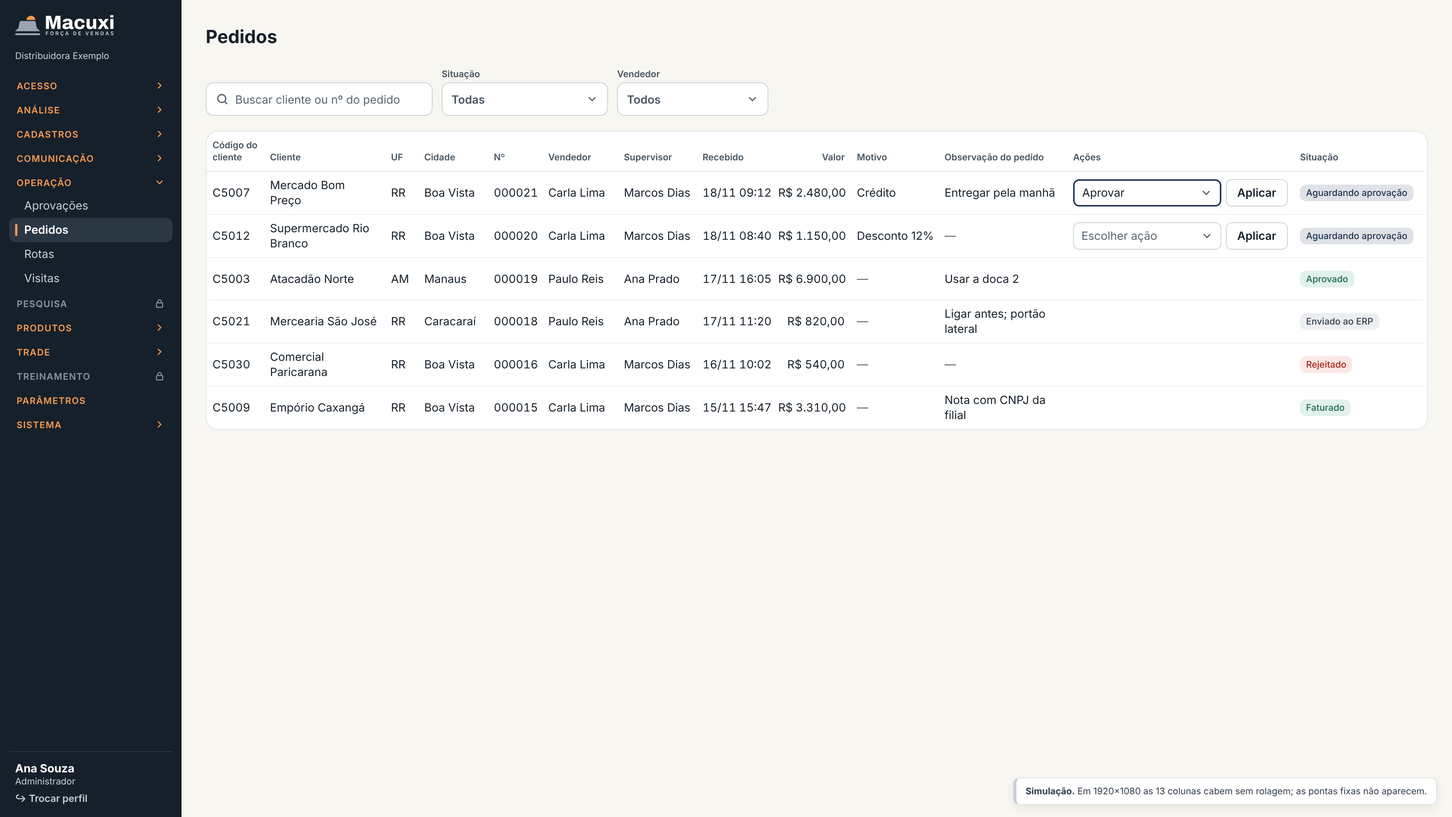
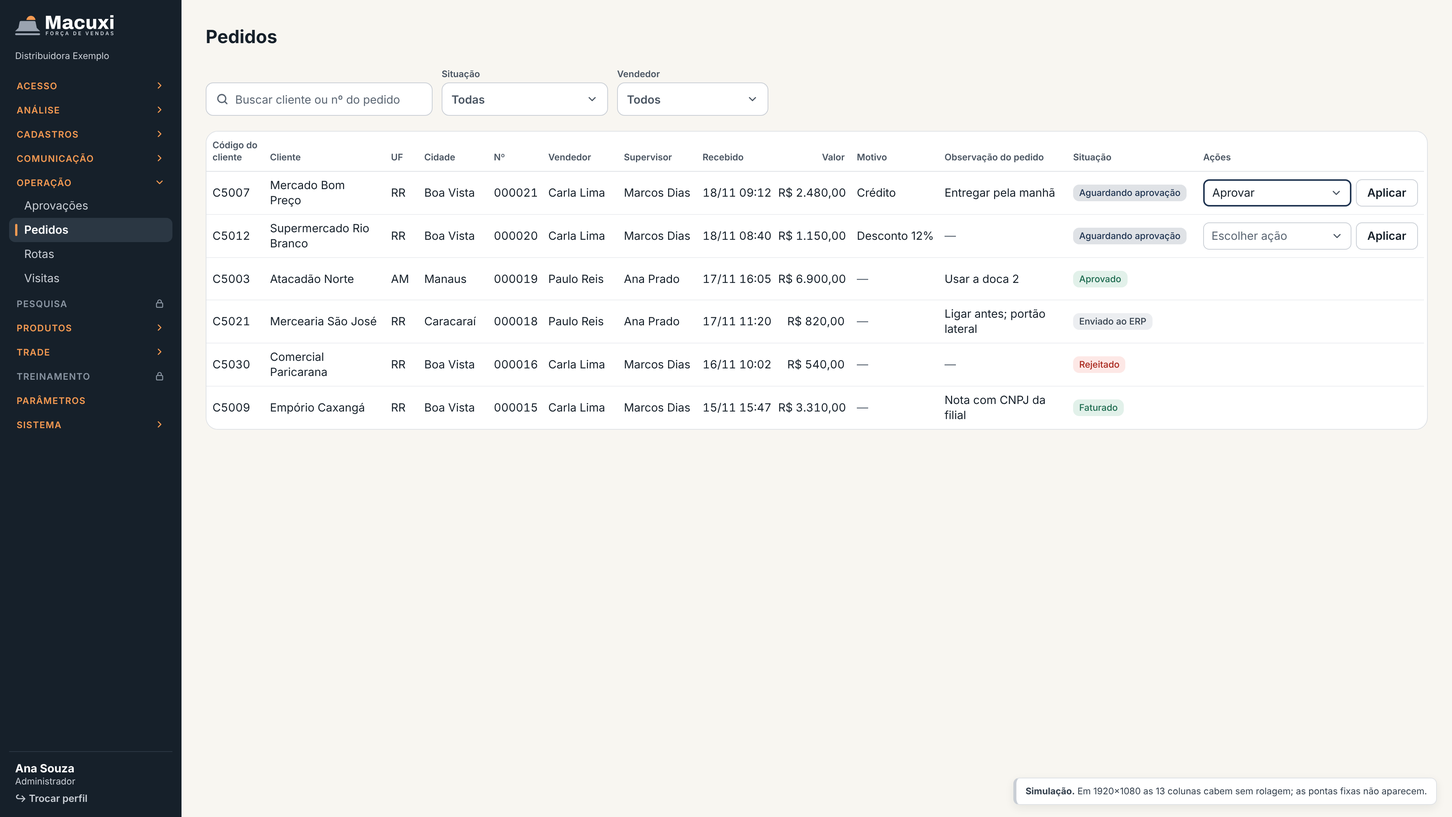
designer-ux — v1.0.15 simulações aprovadas: Situação antes de Ações em BKO › Pedidos; P7 A, P8 A e "Aplicar" na spec
R-20261118-220604-alexandre. Pranchas 04 e 04b com a ordem ... · Motivo · Observação do pedido · Situação · Ações;
na 1366 as pontas fixas são Código/Cliente e Situação/Ações.

Agente: designer-ux

Claude-Session: https://claude.ai/code/session_019xHEXrPzgn3fNKy4GEjQ9e

Changed region(s): [[0.7188, 0.2171, 1.0, 0.4032], [0.875, 0.4343, 0.9375, 0.5273], [0.7188, 0.4343, 0.7812, 0.5273]]

diff --git a/docs/design/pedido-aprovacao/04-bko-pedidos-tabela.html b/docs/design/pedido-aprovacao/04-bko-pedidos-tabela.html
@@ -84,7 +84,7 @@ tr:last-child td{border-bottom:0}
 .filtros{display:flex;gap:12px;align-items:flex-end}
 .filtros .campo{font-size:12px;font-weight:600;color:#4A5562}
 .busca{height:44px;border:1px solid #C9CED5;border-radius:10px;background:#fff;width:300px;display:flex;align-items:center;gap:8px;padding:0 12px;color:#5B6673;font-size:15px}
-/* Tabela de Pedidos (R-20261118-214740): 13 colunas; em 1366 rola na horizontal com Código + Cliente e Ações + Situação fixas. */
+/* Tabela de Pedidos (R-20261118-214740): 13 colunas; em 1366 rola na horizontal com Código + Cliente e Situação + Ações fixas. */
 .quadro.tab{padding:0;overflow:hidden}
 .rola{overflow-x:auto;scrollbar-width:none}
 /* Barra de rolagem desenhada: o Chromium sem janela esconde a nativa. Polegar = área visível ÷ largura da tabela. */
@@ -98,7 +98,7 @@ table.ped td.qb{white-space:normal}
 table.ped .tn{font-variant-numeric:tabular-nums}
 table.ped .vz{color:#5B6673}
 .fe1,.fe2,.fd1,.fd2{position:sticky;z-index:1}
-.fe1{left:0}.fe2{left:76px}.fd1{right:172px}.fd2{right:0}
+.fe1{left:0}.fe2{left:76px}.fd1{right:300px}.fd2{right:0}
 .fe2:after,.fd1:before{content:'';position:absolute;top:0;bottom:0;width:8px;pointer-events:none}
 .fe2:after{right:-8px;background:linear-gradient(to right,rgba(22,32,42,.10),rgba(22,32,42,0))}
 .fd1:before{left:-8px;background:linear-gradient(to left,rgba(22,32,42,.10),rgba(22,32,42,0))}
@@ -112,15 +112,15 @@ table.ped .vz{color:#5B6673}
 </style><body><nav class="menu"><div class="brand"><img src="../../marca/ativos/2026-11-12-v1/macuxi-logo-negativo-grafite.svg" height="28" alt="Macuxi Força de Vendas"><span>Distribuidora Exemplo</span></div><div class="lista"><div class="grupo"><div class="titulo" aria-expanded="false"><span>Acesso</span><svg width="14" height="14" viewBox="0 0 24 24" fill="none" stroke="currentColor" stroke-width="2.2" stroke-linecap="round" stroke-linejoin="round" style="transform:rotate(0deg)"><path d="M9 6l6 6-6 6"/></svg></div></div><div class="grupo"><div class="titulo" aria-expanded="false"><span>Análise</span><svg width="14" height="14" viewBox="0 0 24 24" fill="none" stroke="currentColor" stroke-width="2.2" stroke-linecap="round" stroke-linejoin="round" style="transform:rotate(0deg)"><path d="M9 6l6 6-6 6"/></svg></div></div><div class="grupo"><div class="titulo" aria-expanded="false"><span>Cadastros</span><svg width="14" height="14" viewBox="0 0 24 24" fill="none" stroke="currentColor" stroke-width="2.2" stroke-linecap="round" stroke-linejoin="round" style="transform:rotate(0deg)"><path d="M9 6l6 6-6 6"/></svg></div></div><div class="grupo"><div class="titulo" aria-expanded="false"><span>Comunicação</span><svg width="14" height="14" viewBox="0 0 24 24" fill="none" stroke="currentColor" stroke-width="2.2" stroke-linecap="round" stroke-linejoin="round" style="transform:rotate(0deg)"><path d="M9 6l6 6-6 6"/></svg></div></div><div class="grupo"><div class="titulo aberto" aria-expanded="true"><span>Operação</span><svg width="14" height="14" viewBox="0 0 24 24" fill="none" stroke="currentColor" stroke-width="2.2" stroke-linecap="round" stroke-linejoin="round" style="transform:rotate(90deg)"><path d="M9 6l6 6-6 6"/></svg></div><a class="item">Aprovações</a><a class="item ativo" aria-current="page">Pedidos</a><a class="item">Rotas</a><a class="item">Visitas</a></div><div class="titulo bloq" id="m-pesquisa" role="link" aria-disabled="true" aria-describedby="dica" tabindex="0"><span>Pesquisa</span><svg class="cad" width="14" height="14" viewBox="0 0 24 24" fill="none" stroke="currentColor" stroke-width="2.2" stroke-linecap="round" stroke-linejoin="round" aria-hidden="true"><rect x="5" y="11" width="14" height="10" rx="2"/><path d="M8 11V8a4 4 0 0 1 8 0v3"/></svg></div><div class="grupo"><div class="titulo" aria-expanded="false"><span>Produtos</span><svg width="14" height="14" viewBox="0 0 24 24" fill="none" stroke="currentColor" stroke-width="2.2" stroke-linecap="round" stroke-linejoin="round" style="transform:rotate(0deg)"><path d="M9 6l6 6-6 6"/></svg></div></div><div class="grupo"><div class="titulo" aria-expanded="false"><span>Trade</span><svg width="14" height="14" viewBox="0 0 24 24" fill="none" stroke="currentColor" stroke-width="2.2" stroke-linecap="round" stroke-linejoin="round" style="transform:rotate(0deg)"><path d="M9 6l6 6-6 6"/></svg></div></div><div class="titulo bloq" id="m-treinamento" role="link" aria-disabled="true" aria-describedby="dica" tabindex="0"><span>Treinamento</span><svg class="cad" width="14" height="14" viewBox="0 0 24 24" fill="none" stroke="currentColor" stroke-width="2.2" stroke-linecap="round" stroke-linejoin="round" aria-hidden="true"><rect x="5" y="11" width="14" height="10" rx="2"/><path d="M8 11V8a4 4 0 0 1 8 0v3"/></svg></div><a class="titulo direto"><span>Parâmetros</span></a><div class="grupo"><div class="titulo" aria-expanded="false"><span>Sistema</span><svg width="14" height="14" viewBox="0 0 24 24" fill="none" stroke="currentColor" stroke-width="2.2" stroke-linecap="round" stroke-linejoin="round" style="transform:rotate(0deg)"><path d="M9 6l6 6-6 6"/></svg></div></div></div><div class="rodape"><b>Ana Souza</b><span>Administrador</span><div class="sair">↪ Trocar perfil</div></div></nav><div class="dica" id="dica" role="tooltip" hidden>Contrate o módulo para usar</div><main><h1>Pedidos</h1><div class="corpo"><div class="conteudo"><div class="filtros"><div class="busca"><svg width="18" height="18" viewBox="0 0 24 24" fill="none" stroke="currentColor" stroke-width="2.2" stroke-linecap="round"><circle cx="11" cy="11" r="7"/><path d="M20 20l-3.5-3.5"/></svg><span>Buscar cliente ou nº do pedido</span></div>
 <label class="campo">Situação<div class="sel" style="width:220px"><span>Todas</span><svg width="16" height="16" viewBox="0 0 24 24" fill="none" stroke="currentColor" stroke-width="2.2" stroke-linecap="round" stroke-linejoin="round"><path d="M6 9l6 6 6-6"/></svg></div></label>
 <label class="campo">Vendedor<div class="sel" style="width:200px"><span>Todos</span><svg width="16" height="16" viewBox="0 0 24 24" fill="none" stroke="currentColor" stroke-width="2.2" stroke-linecap="round" stroke-linejoin="round"><path d="M6 9l6 6 6-6"/></svg></div></label></div>
-<section class="quadro tab"><div class="rola"><table class="ped"><colgroup><col style="width:76px"><col style="width:160px"><col style="width:44px"><col style="width:92px"><col style="width:72px"><col style="width:100px"><col style="width:104px"><col style="width:100px"><col style="width:104px"><col style="width:116px"><col style="width:170px"><col style="width:300px"><col style="width:172px"></colgroup>
-<thead><tr><th class="fe1">Código do cliente</th><th class="fe2">Cliente</th><th>UF</th><th>Cidade</th><th>Nº</th><th>Vendedor</th><th>Supervisor</th><th>Recebido</th><th class="n">Valor</th><th>Motivo</th><th>Observação do pedido</th><th class="fd1">Ações</th><th class="fd2">Situação</th></tr></thead><tbody>
-<tr><td class="fe1 tn">C5007</td><td class="fe2 qb">Mercado Bom Preço</td><td>RR</td><td>Boa Vista</td><td class="tn">000021</td><td>Carla Lima</td><td>Marcos Dias</td><td class="tn">18/11 09:12</td><td class="n">R$ 2.480,00</td><td>Crédito</td><td class="qb">Entregar pela manhã</td><td class="fd1"><div class="acs"><div class="sel editado" role="combobox" aria-label="Ação do pedido"><span>Aprovar</span><svg width="16" height="16" viewBox="0 0 24 24" fill="none" stroke="currentColor" stroke-width="2.2" stroke-linecap="round" stroke-linejoin="round"><path d="M6 9l6 6 6-6"/></svg></div><span class="b">Aplicar</span></div></td><td class="fd2"><span class="sit s-pe">Aguardando aprovação</span></td></tr>
-<tr><td class="fe1 tn">C5012</td><td class="fe2 qb">Supermercado Rio Branco</td><td>RR</td><td>Boa Vista</td><td class="tn">000020</td><td>Carla Lima</td><td>Marcos Dias</td><td class="tn">18/11 08:40</td><td class="n">R$ 1.150,00</td><td>Desconto 12%</td><td class="qb"><span class="vz">—</span></td><td class="fd1"><div class="acs"><div class="sel vazia" role="combobox" aria-label="Ação do pedido"><span>Escolher ação</span><svg width="16" height="16" viewBox="0 0 24 24" fill="none" stroke="currentColor" stroke-width="2.2" stroke-linecap="round" stroke-linejoin="round"><path d="M6 9l6 6 6-6"/></svg></div><span class="b">Aplicar</span></div></td><td class="fd2"><span class="sit s-pe">Aguardando aprovação</span></td></tr>
-<tr><td class="fe1 tn">C5003</td><td class="fe2 qb">Atacadão Norte</td><td>AM</td><td>Manaus</td><td class="tn">000019</td><td>Paulo Reis</td><td>Ana Prado</td><td class="tn">17/11 16:05</td><td class="n">R$ 6.900,00</td><td><span class="vz">—</span></td><td class="qb">Usar a doca 2</td><td class="fd1"></td><td class="fd2"><span class="sit s-ok">Aprovado</span></td></tr>
-<tr><td class="fe1 tn">C5021</td><td class="fe2 qb">Mercearia São José</td><td>RR</td><td>Caracaraí</td><td class="tn">000018</td><td>Paulo Reis</td><td>Ana Prado</td><td class="tn">17/11 11:20</td><td class="n">R$ 820,00</td><td><span class="vz">—</span></td><td class="qb">Ligar antes; portão lateral</td><td class="fd1"></td><td class="fd2"><span class="sit s-ne">Enviado ao ERP</span></td></tr>
-<tr><td class="fe1 tn">C5030</td><td class="fe2 qb">Comercial Paricarana</td><td>RR</td><td>Boa Vista</td><td class="tn">000016</td><td>Carla Lima</td><td>Marcos Dias</td><td class="tn">16/11 10:02</td><td class="n">R$ 540,00</td><td><span class="vz">—</span></td><td class="qb"><span class="vz">—</span></td><td class="fd1"></td><td class="fd2"><span class="sit s-re">Rejeitado</span></td></tr>
-<tr><td class="fe1 tn">C5009</td><td class="fe2 qb">Empório Caxangá</td><td>RR</td><td>Boa Vista</td><td class="tn">000015</td><td>Carla Lima</td><td>Marcos Dias</td><td class="tn">15/11 15:47</td><td class="n">R$ 3.310,00</td><td><span class="vz">—</span></td><td class="qb">Nota com CNPJ da filial</td><td class="fd1"></td><td class="fd2"><span class="sit s-ok">Faturado</span></td></tr>
-</tbody></table></div><div class="barra-rola" aria-hidden="true"><i></i></div></section></div></div><div class="nota solta"><b>Simulação.</b> Colunas na ordem pedida (R-20261118-214740). Ações só no pendente: lista com Aprovar, Rejeitar e Devolver ao vendedor + Aplicar. Situação por último, só com os status do sistema. Largura: A rolagem com as pontas fixas (recomendado).</div></main><script>document.fonts.ready.then(()=>{const d=document.getElementById('dica'),t=document.querySelector('[data-dica]');if(t&&!d.hidden){const r=t.getBoundingClientRect();d.style.left=(r.right+10)+'px';d.style.top=(r.top+r.height/2-d.offsetHeight/2)+'px';}
+<section class="quadro tab"><div class="rola"><table class="ped"><colgroup><col style="width:76px"><col style="width:160px"><col style="width:44px"><col style="width:92px"><col style="width:72px"><col style="width:100px"><col style="width:104px"><col style="width:100px"><col style="width:104px"><col style="width:116px"><col style="width:170px"><col style="width:172px"><col style="width:300px"></colgroup>
+<thead><tr><th class="fe1">Código do cliente</th><th class="fe2">Cliente</th><th>UF</th><th>Cidade</th><th>Nº</th><th>Vendedor</th><th>Supervisor</th><th>Recebido</th><th class="n">Valor</th><th>Motivo</th><th>Observação do pedido</th><th class="fd1">Situação</th><th class="fd2">Ações</th></tr></thead><tbody>
+<tr><td class="fe1 tn">C5007</td><td class="fe2 qb">Mercado Bom Preço</td><td>RR</td><td>Boa Vista</td><td class="tn">000021</td><td>Carla Lima</td><td>Marcos Dias</td><td class="tn">18/11 09:12</td><td class="n">R$ 2.480,00</td><td>Crédito</td><td class="qb">Entregar pela manhã</td><td class="fd1"><span class="sit s-pe">Aguardando aprovação</span></td><td class="fd2"><div class="acs"><div class="sel editado" role="combobox" aria-label="Ação do pedido"><span>Aprovar</span><svg width="16" height="16" viewBox="0 0 24 24" fill="none" stroke="currentColor" stroke-width="2.2" stroke-linecap="round" stroke-linejoin="round"><path d="M6 9l6 6 6-6"/></svg></div><span class="b">Aplicar</span></div></td></tr>
+<tr><td class="fe1 tn">C5012</td><td class="fe2 qb">Supermercado Rio Branco</td><td>RR</td><td>Boa Vista</td><td class="tn">000020</td><td>Carla Lima</td><td>Marcos Dias</td><td class="tn">18/11 08:40</td><td class="n">R$ 1.150,00</td><td>Desconto 12%</td><td class="qb"><span class="vz">—</span></td><td class="fd1"><span class="sit s-pe">Aguardando aprovação</span></td><td class="fd2"><div class="acs"><div class="sel vazia" role="combobox" aria-label="Ação do pedido"><span>Escolher ação</span><svg width="16" height="16" viewBox="0 0 24 24" fill="none" stroke="currentColor" stroke-width="2.2" stroke-linecap="round" stroke-linejoin="round"><path d="M6 9l6 6 6-6"/></svg></div><span class="b">Aplicar</span></div></td></tr>
+<tr><td class="fe1 tn">C5003</td><td class="fe2 qb">Atacadão Norte</td><td>AM</td><td>Manaus</td><td class="tn">000019</td><td>Paulo Reis</td><td>Ana Prado</td><td class="tn">17/11 16:05</td><td class="n">R$ 6.900,00</td><td><span class="vz">—</span></td><td class="qb">Usar a doca 2</td><td class="fd1"><span class="sit s-ok">Aprovado</span></td><td class="fd2"></td></tr>
+<tr><td class="fe1 tn">C5021</td><td class="fe2 qb">Mercearia São José</td><td>RR</td><td>Caracaraí</td><td class="tn">000018</td><td>Paulo Reis</td><td>Ana Prado</td><td class="tn">17/11 11:20</td><td class="n">R$ 820,00</td><td><span class="vz">—</span></td><td class="qb">Ligar antes; portão lateral</td><td class="fd1"><span class="sit s-ne">Enviado ao ERP</span></td><td class="fd2"></td></tr>
+<tr><td class="fe1 tn">C5030</td><td class="fe2 qb">Comercial Paricarana</td><td>RR</td><td>Boa Vista</td><td class="tn">000016</td><td>Carla Lima</td><td>Marcos Dias</td><td class="tn">16/11 10:02</td><td class="n">R$ 540,00</td><td><span class="vz">—</span></td><td class="qb"><span class="vz">—</span></td><td class="fd1"><span class="sit s-re">Rejeitado</span></td><td class="fd2"></td></tr>
+<tr><td class="fe1 tn">C5009</td><td class="fe2 qb">Empório Caxangá</td><td>RR</td><td>Boa Vista</td><td class="tn">000015</td><td>Carla Lima</td><td>Marcos Dias</td><td class="tn">15/11 15:47</td><td class="n">R$ 3.310,00</td><td><span class="vz">—</span></td><td class="qb">Nota com CNPJ da filial</td><td class="fd1"><span class="sit s-ok">Faturado</span></td><td class="fd2"></td></tr>
+</tbody></table></div><div class="barra-rola" aria-hidden="true"><i></i></div></section></div></div><div class="nota solta"><b>Simulação.</b> Colunas na ordem pedida (R-20261118-214740). Situação e Ações por último. Situação só com os status do sistema. Ações só no pendente: lista com Aprovar, Rejeitar e Devolver ao vendedor + Aplicar. Largura: A rolagem com as pontas fixas (recomendado).</div></main><script>document.fonts.ready.then(()=>{const d=document.getElementById('dica'),t=document.querySelector('[data-dica]');if(t&&!d.hidden){const r=t.getBoundingClientRect();d.style.left=(r.right+10)+'px';d.style.top=(r.top+r.height/2-d.offsetHeight/2)+'px';}
 const sobre=[...document.querySelectorAll('.dica:not([hidden]),.nota')].map(e=>e.getBoundingClientRect());const conflitos=[];
 for(const el of document.querySelectorAll('main *')){if(el.closest('.nota'))continue;if(el.children.length&&!el.matches('td,th,.input,.btn,.selo,h1,h2,legend,small,.dia,.sec'))continue;const r=el.getBoundingClientRect();if(!r.width||!r.height)continue;for(const s of sobre){if(r.left<s.right&&r.right>s.left&&r.top<s.bottom&&r.bottom>s.top)conflitos.push(el.tagName+'.'+el.className+': '+el.textContent.trim().slice(0,30));}}
 const l=document.querySelector('.lista');document.body.dataset.info=JSON.stringify({conflitos,lista:l.scrollHeight,visivel:l.clientHeight});document.body.dataset.pronto='1';});</script></body></html>

diff --git a/docs/design/pedido-aprovacao/04b-bko-pedidos-tabela-larga.html b/docs/design/pedido-aprovacao/04b-bko-pedidos-tabela-larga.html
@@ -84,7 +84,7 @@ body{width:1920px;min-height:1080px}.menu{min-height:1080px}main{max-width:none}
 .filtros{display:flex;gap:12px;align-items:flex-end}
 .filtros .campo{font-size:12px;font-weight:600;color:#4A5562}
 .busca{height:44px;border:1px solid #C9CED5;border-radius:10px;background:#fff;width:300px;display:flex;align-items:center;gap:8px;padding:0 12px;color:#5B6673;font-size:15px}
-/* Tabela de Pedidos (R-20261118-214740): 13 colunas; em 1366 rola na horizontal com Código + Cliente e Ações + Situação fixas. */
+/* Tabela de Pedidos (R-20261118-214740): 13 colunas; em 1366 rola na horizontal com Código + Cliente e Situação + Ações fixas. */
 .quadro.tab{padding:0;overflow:hidden}
 .rola{overflow-x:auto;scrollbar-width:none}
 /* Barra de rolagem desenhada: o Chromium sem janela esconde a nativa. Polegar = área visível ÷ largura da tabela. */
@@ -98,7 +98,7 @@ table.ped td.qb{white-space:normal}
 table.ped .tn{font-variant-numeric:tabular-nums}
 table.ped .vz{color:#5B6673}
 .fe1,.fe2,.fd1,.fd2{position:sticky;z-index:1}
-.fe1{left:0}.fe2{left:76px}.fd1{right:172px}.fd2{right:0}
+.fe1{left:0}.fe2{left:76px}.fd1{right:300px}.fd2{right:0}
 .fe2:after,.fd1:before{content:'';position:absolute;top:0;bottom:0;width:8px;pointer-events:none}
 .fe2:after{right:-8px;background:linear-gradient(to right,rgba(22,32,42,.10),rgba(22,32,42,0))}
 .fd1:before{left:-8px;background:linear-gradient(to left,rgba(22,32,42,.10),rgba(22,32,42,0))}
@@ -112,14 +112,14 @@ table.ped .vz{color:#5B6673}
 </style><body class="larga"><nav class="menu"><div class="brand"><img src="../../marca/ativos/2026-11-12-v1/macuxi-logo-negativo-grafite.svg" height="28" alt="Macuxi Força de Vendas"><span>Distribuidora Exemplo</span></div><div class="lista"><div class="grupo"><div class="titulo" aria-expanded="false"><span>Acesso</span><svg width="14" height="14" viewBox="0 0 24 24" fill="none" stroke="currentColor" stroke-width="2.2" stroke-linecap="round" stroke-linejoin="round" style="transform:rotate(0deg)"><path d="M9 6l6 6-6 6"/></svg></div></div><div class="grupo"><div class="titulo" aria-expanded="false"><span>Análise</span><svg width="14" height="14" viewBox="0 0 24 24" fill="none" stroke="currentColor" stroke-width="2.2" stroke-linecap="round" stroke-linejoin="round" style="transform:rotate(0deg)"><path d="M9 6l6 6-6 6"/></svg></div></div><div class="grupo"><div class="titulo" aria-expanded="false"><span>Cadastros</span><svg width="14" height="14" viewBox="0 0 24 24" fill="none" stroke="currentColor" stroke-width="2.2" stroke-linecap="round" stroke-linejoin="round" style="transform:rotate(0deg)"><path d="M9 6l6 6-6 6"/></svg></div></div><div class="grupo"><div class="titulo" aria-expanded="false"><span>Comunicação</span><svg width="14" height="14" viewBox="0 0 24 24" fill="none" stroke="currentColor" stroke-width="2.2" stroke-linecap="round" stroke-linejoin="round" style="transform:rotate(0deg)"><path d="M9 6l6 6-6 6"/></svg></div></div><div class="grupo"><div class="titulo aberto" aria-expanded="true"><span>Operação</span><svg width="14" height="14" viewBox="0 0 24 24" fill="none" stroke="currentColor" stroke-width="2.2" stroke-linecap="round" stroke-linejoin="round" style="transform:rotate(90deg)"><path d="M9 6l6 6-6 6"/></svg></div><a class="item">Aprovações</a><a class="item ativo" aria-current="page">Pedidos</a><a class="item">Rotas</a><a class="item">Visitas</a></div><div class="titulo bloq" id="m-pesquisa" role="link" aria-disabled="true" aria-describedby="dica" tabindex="0"><span>Pesquisa</span><svg class="cad" width="14" height="14" viewBox="0 0 24 24" fill="none" stroke="currentColor" stroke-width="2.2" stroke-linecap="round" stroke-linejoin="round" aria-hidden="true"><rect x="5" y="11" width="14" height="10" rx="2"/><path d="M8 11V8a4 4 0 0 1 8 0v3"/></svg></div><div class="grupo"><div class="titulo" aria-expanded="false"><span>Produtos</span><svg width="14" height="14" viewBox="0 0 24 24" fill="none" stroke="currentColor" stroke-width="2.2" stroke-linecap="round" stroke-linejoin="round" style="transform:rotate(0deg)"><path d="M9 6l6 6-6 6"/></svg></div></div><div class="grupo"><div class="titulo" aria-expanded="false"><span>Trade</span><svg width="14" height="14" viewBox="0 0 24 24" fill="none" stroke="currentColor" stroke-width="2.2" stroke-linecap="round" stroke-linejoin="round" style="transform:rotate(0deg)"><path d="M9 6l6 6-6 6"/></svg></div></div><div class="titulo bloq" id="m-treinamento" role="link" aria-disabled="true" aria-describedby="dica" tabindex="0"><span>Treinamento</span><svg class="cad" width="14" height="14" viewBox="0 0 24 24" fill="none" stroke="currentColor" stroke-width="2.2" stroke-linecap="round" stroke-linejoin="round" aria-hidden="true"><rect x="5" y="11" width="14" height="10" rx="2"/><path d="M8 11V8a4 4 0 0 1 8 0v3"/></svg></div><a class="titulo direto"><span>Parâmetros</span></a><div class="grupo"><div class="titulo" aria-expanded="false"><span>Sistema</span><svg width="14" height="14" viewBox="0 0 24 24" fill="none" stroke="currentColor" stroke-width="2.2" stroke-linecap="round" stroke-linejoin="round" style="transform:rotate(0deg)"><path d="M9 6l6 6-6 6"/></svg></div></div></div><div class="rodape"><b>Ana Souza</b><span>Administrador</span><div class="sair">↪ Trocar perfil</div></div></nav><div class="dica" id="dica" role="tooltip" hidden>Contrate o módulo para usar</div><main><h1>Pedidos</h1><div class="corpo"><div class="conteudo"><div class="filtros"><div class="busca"><svg width="18" height="18" viewBox="0 0 24 24" fill="none" stroke="currentColor" stroke-width="2.2" stroke-linecap="round"><circle cx="11" cy="11" r="7"/><path d="M20 20l-3.5-3.5"/></svg><span>Buscar cliente ou nº do pedido</span></div>
 <label class="campo">Situação<div class="sel" style="width:220px"><span>Todas</span><svg width="16" height="16" viewBox="0 0 24 24" fill="none" stroke="currentColor" stroke-width="2.2" stroke-linecap="round" stroke-linejoin="round"><path d="M6 9l6 6 6-6"/></svg></div></label>
 <label class="campo">Vendedor<div class="sel" style="width:200px"><span>Todos</span><svg width="16" height="16" viewBox="0 0 24 24" fill="none" stroke="currentColor" stroke-width="2.2" stroke-linecap="round" stroke-linejoin="round"><path d="M6 9l6 6 6-6"/></svg></div></label></div>
-<section class="quadro tab"><div class="rola"><table class="ped"><colgroup><col style="width:76px"><col style="width:160px"><col style="width:44px"><col style="width:92px"><col style="width:72px"><col style="width:100px"><col style="width:104px"><col style="width:100px"><col style="width:104px"><col style="width:116px"><col style="width:170px"><col style="width:300px"><col style="width:172px"></colgroup>
-<thead><tr><th class="fe1">Código do cliente</th><th class="fe2">Cliente</th><th>UF</th><th>Cidade</th><th>Nº</th><th>Vendedor</th><th>Supervisor</th><th>Recebido</th><th class="n">Valor</th><th>Motivo</th><th>Observação do pedido</th><th class="fd1">Ações</th><th class="fd2">Situação</th></tr></thead><tbody>
-<tr><td class="fe1 tn">C5007</td><td class="fe2 qb">Mercado Bom Preço</td><td>RR</td><td>Boa Vista</td><td class="tn">000021</td><td>Carla Lima</td><td>Marcos Dias</td><td class="tn">18/11 09:12</td><td class="n">R$ 2.480,00</td><td>Crédito</td><td class="qb">Entregar pela manhã</td><td class="fd1"><div class="acs"><div class="sel editado" role="combobox" aria-label="Ação do pedido"><span>Aprovar</span><svg width="16" height="16" viewBox="0 0 24 24" fill="none" stroke="currentColor" stroke-width="2.2" stroke-linecap="round" stroke-linejoin="round"><path d="M6 9l6 6 6-6"/></svg></div><span class="b">Aplicar</span></div></td><td class="fd2"><span class="sit s-pe">Aguardando aprovação</span></td></tr>
-<tr><td class="fe1 tn">C5012</td><td class="fe2 qb">Supermercado Rio Branco</td><td>RR</td><td>Boa Vista</td><td class="tn">000020</td><td>Carla Lima</td><td>Marcos Dias</td><td class="tn">18/11 08:40</td><td class="n">R$ 1.150,00</td><td>Desconto 12%</td><td class="qb"><span class="vz">—</span></td><td class="fd1"><div class="acs"><div class="sel vazia" role="combobox" aria-label="Ação do pedido"><span>Escolher ação</span><svg width="16" height="16" viewBox="0 0 24 24" fill="none" stroke="currentColor" stroke-width="2.2" stroke-linecap="round" stroke-linejoin="round"><path d="M6 9l6 6 6-6"/></svg></div><span class="b">Aplicar</span></div></td><td class="fd2"><span class="sit s-pe">Aguardando aprovação</span></td></tr>
-<tr><td class="fe1 tn">C5003</td><td class="fe2 qb">Atacadão Norte</td><td>AM</td><td>Manaus</td><td class="tn">000019</td><td>Paulo Reis</td><td>Ana Prado</td><td class="tn">17/11 16:05</td><td class="n">R$ 6.900,00</td><td><span class="vz">—</span></td><td class="qb">Usar a doca 2</td><td class="fd1"></td><td class="fd2"><span class="sit s-ok">Aprovado</span></td></tr>
-<tr><td class="fe1 tn">C5021</td><td class="fe2 qb">Mercearia São José</td><td>RR</td><td>Caracaraí</td><td class="tn">000018</td><td>Paulo Reis</td><td>Ana Prado</td><td class="tn">17/11 11:20</td><td class="n">R$ 820,00</td><td><span class="vz">—</span></td><td class="qb">Ligar antes; portão lateral</td><td class="fd1"></td><td class="fd2"><span class="sit s-ne">Enviado ao ERP</span></td></tr>
-<tr><td class="fe1 tn">C5030</td><td class="fe2 qb">Comercial Paricarana</td><td>RR</td><td>Boa Vista</td><td class="tn">000016</td><td>Carla Lima</td><td>Marcos Dias</td><td class="tn">16/11 10:02</td><td class="n">R$ 540,00</td><td><span class="vz">—</span></td><td class="qb"><span class="vz">—</span></td><td class="fd1"></td><td class="fd2"><span class="sit s-re">Rejeitado</span></td></tr>
-<tr><td class="fe1 tn">C5009</td><td class="fe2 qb">Empório Caxangá</td><td>RR</td><td>Boa Vista</td><td class="tn">000015</td><td>Carla Lima</td><td>Marcos Dias</td><td class="tn">15/11 15:47</td><td class="n">R$ 3.310,00</td><td><span class="vz">—</span></td><td class="qb">Nota com CNPJ da filial</td><td class="fd1"></td><td class="fd2"><span class="sit s-ok">Faturado</span></td></tr>
+<section class="quadro tab"><div class="rola"><table class="ped"><colgroup><col style="width:76px"><col style="width:160px"><col style="width:44px"><col style="width:92px"><col style="width:72px"><col style="width:100px"><col style="width:104px"><col style="width:100px"><col style="width:104px"><col style="width:116px"><col style="width:170px"><col style="width:172px"><col style="width:300px"></colgroup>
+<thead><tr><th class="fe1">Código do cliente</th><th class="fe2">Cliente</th><th>UF</th><th>Cidade</th><th>Nº</th><th>Vendedor</th><th>Supervisor</th><th>Recebido</th><th class="n">Valor</th><th>Motivo</th><th>Observação do pedido</th><th class="fd1">Situação</th><th class="fd2">Ações</th></tr></thead><tbody>
+<tr><td class="fe1 tn">C5007</td><td class="fe2 qb">Mercado Bom Preço</td><td>RR</td><td>Boa Vista</td><td class="tn">000021</td><td>Carla Lima</td><td>Marcos Dias</td><td class="tn">18/11 09:12</td><td class="n">R$ 2.480,00</td><td>Crédito</td><td class="qb">Entregar pela manhã</td><td class="fd1"><span class="sit s-pe">Aguardando aprovação</span></td><td class="fd2"><div class="acs"><div class="sel editado" role="combobox" aria-label="Ação do pedido"><span>Aprovar</span><svg width="16" height="16" viewBox="0 0 24 24" fill="none" stroke="currentColor" stroke-width="2.2" stroke-linecap="round" stroke-linejoin="round"><path d="M6 9l6 6 6-6"/></svg></div><span class="b">Aplicar</span></div></td></tr>
+<tr><td class="fe1 tn">C5012</td><td class="fe2 qb">Supermercado Rio Branco</td><td>RR</td><td>Boa Vista</td><td class="tn">000020</td><td>Carla Lima</td><td>Marcos Dias</td><td class="tn">18/11 08:40</td><td class="n">R$ 1.150,00</td><td>Desconto 12%</td><td class="qb"><span class="vz">—</span></td><td class="fd1"><span class="sit s-pe">Aguardando aprovação</span></td><td class="fd2"><div class="acs"><div class="sel vazia" role="combobox" aria-label="Ação do pedido"><span>Escolher ação</span><svg width="16" height="16" viewBox="0 0 24 24" fill="none" stroke="currentColor" stroke-width="2.2" stroke-linecap="round" stroke-linejoin="round"><path d="M6 9l6 6 6-6"/></svg></div><span class="b">Aplicar</span></div></td></tr>
+<tr><td class="fe1 tn">C5003</td><td class="fe2 qb">Atacadão Norte</td><td>AM</td><td>Manaus</td><td class="tn">000019</td><td>Paulo Reis</td><td>Ana Prado</td><td class="tn">17/11 16:05</td><td class="n">R$ 6.900,00</td><td><span class="vz">—</span></td><td class="qb">Usar a doca 2</td><td class="fd1"><span class="sit s-ok">Aprovado</span></td><td class="fd2"></td></tr>
+<tr><td class="fe1 tn">C5021</td><td class="fe2 qb">Mercearia São José</td><td>RR</td><td>Caracaraí</td><td class="tn">000018</td><td>Paulo Reis</td><td>Ana Prado</td><td class="tn">17/11 11:20</td><td class="n">R$ 820,00</td><td><span class="vz">—</span></td><td class="qb">Ligar antes; portão lateral</td><td class="fd1"><span class="sit s-ne">Enviado ao ERP</span></td><td class="fd2"></td></tr>
+<tr><td class="fe1 tn">C5030</td><td class="fe2 qb">Comercial Paricarana</td><td>RR</td><td>Boa Vista</td><td class="tn">000016</td><td>Carla Lima</td><td>Marcos Dias</td><td class="tn">16/11 10:02</td><td class="n">R$ 540,00</td><td><span class="vz">—</span></td><td class="qb"><span class="vz">—</span></td><td class="fd1"><span class="sit s-re">Rejeitado</span></td><td class="fd2"></td></tr>
+<tr><td class="fe1 tn">C5009</td><td class="fe2 qb">Empório Caxangá</td><td>RR</td><td>Boa Vista</td><td class="tn">000015</td><td>Carla Lima</td><td>Marcos Dias</td><td class="tn">15/11 15:47</td><td class="n">R$ 3.310,00</td><td><span class="vz">—</span></td><td class="qb">Nota com CNPJ da filial</td><td class="fd1"><span class="sit s-ok">Faturado</span></td><td class="fd2"></td></tr>
 </tbody></table></div><div class="barra-rola" aria-hidden="true"><i></i></div></section></div></div><div class="nota solta"><b>Simulação.</b> Em 1920×1080 as 13 colunas cabem sem rolagem; as pontas fixas não aparecem.</div></main><script>document.fonts.ready.then(()=>{const d=document.getElementById('dica'),t=document.querySelector('[data-dica]');if(t&&!d.hidden){const r=t.getBoundingClientRect();d.style.left=(r.right+10)+'px';d.style.top=(r.top+r.height/2-d.offsetHeight/2)+'px';}
 const sobre=[...document.querySelectorAll('.dica:not([hidden]),.nota')].map(e=>e.getBoundingClientRect());const conflitos=[];
 for(const el of document.querySelectorAll('main *')){if(el.closest('.nota'))continue;if(el.children.length&&!el.matches('td,th,.input,.btn,.selo,h1,h2,legend,small,.dia,.sec'))continue;const r=el.getBoundingClientRect();if(!r.width||!r.height)continue;for(const s of sobre){if(r.left<s.right&&r.right>s.left&&r.top<s.bottom&&r.bottom>s.top)conflitos.push(el.tagName+'.'+el.className+': '+el.textContent.trim().slice(0,30));}}

diff --git a/docs/design/pedido-aprovacao/01-bko-parametros-pedidos.html b/docs/design/pedido-aprovacao/01-bko-parametros-pedidos.html
@@ -84,7 +84,7 @@ tr:last-child td{border-bottom:0}
 .filtros{display:flex;gap:12px;align-items:flex-end}
 .filtros .campo{font-size:12px;font-weight:600;color:#4A5562}
 .busca{height:44px;border:1px solid #C9CED5;border-radius:10px;background:#fff;width:300px;display:flex;align-items:center;gap:8px;padding:0 12px;color:#5B6673;font-size:15px}
-/* Tabela de Pedidos (R-20261118-214740): 13 colunas; em 1366 rola na horizontal com Código + Cliente e Ações + Situação fixas. */
+/* Tabela de Pedidos (R-20261118-214740): 13 colunas; em 1366 rola na horizontal com Código + Cliente e Situação + Ações fixas. */
 .quadro.tab{padding:0;overflow:hidden}
 .rola{overflow-x:auto;scrollbar-width:none}
 /* Barra de rolagem desenhada: o Chromium sem janela esconde a nativa. Polegar = área visível ÷ largura da tabela. */
@@ -98,7 +98,7 @@ table.ped td.qb{white-space:normal}
 table.ped .tn{font-variant-numeric:tabular-nums}
 table.ped .vz{color:#5B6673}
 .fe1,.fe2,.fd1,.fd2{position:sticky;z-index:1}
-.fe1{left:0}.fe2{left:76px}.fd1{right:172px}.fd2{right:0}
+.fe1{left:0}.fe2{left:76px}.fd1{right:300px}.fd2{right:0}
 .fe2:after,.fd1:before{content:'';position:absolute;top:0;bottom:0;width:8px;pointer-events:none}
 .fe2:after{right:-8px;background:linear-gradient(to right,rgba(22,32,42,.10),rgba(22,32,42,0))}
 .fd1:before{left:-8px;background:linear-gradient(to left,rgba(22,32,42,.10),rgba(22,32,42,0))}

diff --git a/docs/design/pedido-aprovacao/spec.md b/docs/design/pedido-aprovacao/spec.md
@@ -33,7 +33,7 @@ R-20261116-143000 e R-20261118-212716 (tabela simples de Pedidos). Gerador: `nod
 - **Offline:** o app calcula com os dados da última sincronização e mostra os mesmos alertas; o servidor revalida ao receber
   (critério 4). Nenhuma tela nova.
 - **BKO › Pedidos (tabela, R-20261118-214740):** colunas nesta ordem: Código do cliente · Cliente · UF · Cidade · Nº · Vendedor ·
-  Supervisor · Recebido · Valor · Motivo · Observação do pedido · Ações · Situação. Sai o quadro "Aguardando aprovação".
+  Supervisor · Recebido · Valor · Motivo · Observação do pedido · Situação · Ações. Sai o quadro "Aguardando aprovação".
   - **Substitui** (RD-2231), em `docs/design/telas/bko-revisao.md`, as linhas 246 a 250 (regras 5 e 6 e o "Texto final
     (Pedidos)": quadro "Aguardando aprovação" em cima; pendente fora da lista, da contagem e do total; select Situação sem
     "Aguardando aprovação") e as linhas 358 e 359 (decisão h, opções a e b). Vale agora: sem quadro de pendências; o pendente
@@ -42,9 +42,9 @@ R-20261116-143000 e R-20261118-212716 (tabela simples de Pedidos). Gerador: `nod
   - **Motivo** vira coluna (`Crédito`, `Inadimplente`, `Desconto 12%`); vazio = `—`, como nas outras tabelas do BKO. A
     **Observação** também usa `—` quando vazia e quebra em até 2 linhas; o Cliente também quebra. Nada com reticências (RD-2233).
   - **Ações** só no pedido `Aguardando aprovação`: lista suspensa (Aprovar, Rejeitar, Devolver ao vendedor; vazia mostra
-    `Escolher ação`) e um botão ao lado. Rótulo do botão: A **Aplicar** (recomendado), B Confirmar, C Executar. Por quê:
+    `Escolher ação`) e um botão ao lado. Rótulo do botão: A **Aplicar**, B Confirmar, C Executar. **Decidido: Aplicar** (18/11, R-20261118-220604). Por quê:
     "Aplicar" é o padrão de ação escolhida numa lista em BKO, verbo curto que não se confunde com "Aprovar".
-  - **Situação** por último, só com `ORDER_STATUS_LABEL`, no selo do sistema (`SeloSituacao`, MC-1743): Aguardando aprovação
+  - **Situação** antes de Ações (as duas por último), só com `ORDER_STATUS_LABEL`, no selo do sistema (`SeloSituacao`, MC-1743): Aguardando aprovação
     `pending` (#1E3350 sobre #DFE2E6), Aprovado e Faturado `success`, Enviado ao ERP `neutral`, Rejeitado `danger`; peso 500.
   - **Marca:** lista e botão de Ações em 15 px; rótulos dos filtros 12/600; cabeçalho 12; Código, Nº, Recebido e Valor com
     `tabular-nums`.
@@ -54,7 +54,7 @@ R-20261116-143000 e R-20261118-212716 (tabela simples de Pedidos). Gerador: `nod
 
 | Opção | Como fica | Recomendação |
 |---|---|---|
-| **A** | Rolagem horizontal: Código + Cliente fixos à esquerda, Ações + Situação fixas à direita (`position: sticky`), as do meio rolam; barra visível e sombra sutil na borda das fixas | **A**: funciona em 1366, o notebook comum do escritório, e deixa cliente e ação sempre à vista |
+| **A** | Rolagem horizontal: Código + Cliente fixos à esquerda, Situação + Ações fixas à direita (`position: sticky`), as do meio rolam; barra visível e sombra sutil na borda interna das fixas | **A**: funciona em 1366, o notebook comum do escritório, e deixa cliente e ação sempre à vista |
 | **B** | Abaixo de 1600 px somem, nesta ordem, UF, Cidade, Supervisor e Observação | — |
 | **C** | Exigir tela larga (1920) | — |
 
@@ -72,11 +72,13 @@ Em 1920×1080 (`04b`) as 13 colunas cabem sem rolagem nas três opções.
 
 Decisões do dono do produto em 18/11 (R-20261118-214740).
 
-## Pontos em aberto da P3 B
-| Ponto | A | B | Recomendação |
-|---|---|---|---|
-| **P7** As aprovações acontecem ao mesmo tempo ou em ordem? | ao mesmo tempo: cada aprovador decide quando quiser; o pedido sai quando todas aprovarem | em ordem: crédito → inadimplência → desconto | **A**: mais rápido; nenhum motivo depende do outro. A prancha 02 mostra a inadimplência aprovada antes do crédito |
-| **P8** A rejeição de um motivo devolve o pedido inteiro? | sim: uma rejeição encerra as outras aprovações pendentes e o pedido segue o P6 (Rejeitar = `Cancelado`; Devolver = `Rejeitado` com "Corrigir pedido") | não: as outras continuam e o vendedor só vê o resultado no fim | **A**: o vendedor corrige uma vez; ninguém aprova o que já caiu. A 3ª tela da prancha 02 mostra o crédito devolvido e a etapa pendente encerrada |
+## Pontos da P3 B
+| Ponto | A | B | Recomendação | Decisão (18/11) |
+|---|---|---|---|---|
+| **P7** As aprovações acontecem ao mesmo tempo ou em ordem? | ao mesmo tempo: cada aprovador decide quando quiser; o pedido sai quando todas aprovarem | em ordem: crédito → inadimplência → desconto | **A**: mais rápido; nenhum motivo depende do outro. A prancha 02 mostra a inadimplência aprovada antes do crédito | **A** |
+| **P8** A rejeição de um motivo devolve o pedido inteiro? | sim: uma rejeição encerra as outras aprovações pendentes e o pedido segue o P6 (Rejeitar = `Cancelado`; Devolver = `Rejeitado` com "Corrigir pedido") | não: as outras continuam e o vendedor só vê o resultado no fim | **A**: o vendedor corrige uma vez; ninguém aprova o que já caiu. A 3ª tela da prancha 02 mostra o crédito devolvido e a etapa pendente encerrada | **A** |
+
+Decisões do dono do produto em 18/11 (R-20261118-220604), sobre as simulações: P7 A, P8 A e o rótulo "Aplicar".
 
 ## 3. Depois da aprovação
 - gerente-projetos: RN-VEN-12 e RN-VEN-13 no doc 03 com a decisão.

diff --git a/.coord/diario/designer-ux.md b/.coord/diario/designer-ux.md
@@ -167,3 +167,4 @@
 2026-11-17 — v1.0.14 parametros — ListaParametros, valorComPadrao e formatarParametro (min, pct, dias, unidade) no kit web (packages/ui/src/web/lista-parametros.tsx, 8 testes), para Pesquisa, Trade e Treinamento fecharem a RD-1583 e a RD-1584; mesmo visual de hoje (rótulo 15/600, Padrão 13 em ink-2, MC-1515); refeito no Cline.
 2026-11-19 — T-0184 e MC-1503 — simulação do P-6 (Parâmetros › Pedidos com Quem aprova o crédito e a inadimplência, motivo no Histórico do Campo e na fila da Gestão) e da tabela simples de Pedidos do BKO em docs/design/pedido-aprovacao/; inkDisabled #5B6673 (MC-1503 B); MC-1522 A conferido (nome do cartão 16/600 em modules/catalogo/app/telas/comum.tsx:158 e na spec do Catálogo v2).
 2026-11-19 — T-0184 — #492: decisões P1-P6 do dono do produto nas pranchas (dois aprovadores, uma aprovação por motivo), P7 e P8 abertos; MC-1743 a 1747 e RD-2230 a 2235 corrigidos.
+2026-11-19 — T-0184 — #492: simulações aprovadas (P7 A, P8 A, "Aplicar"); Situação antes de Ações na tabela de Pedidos do BKO.
